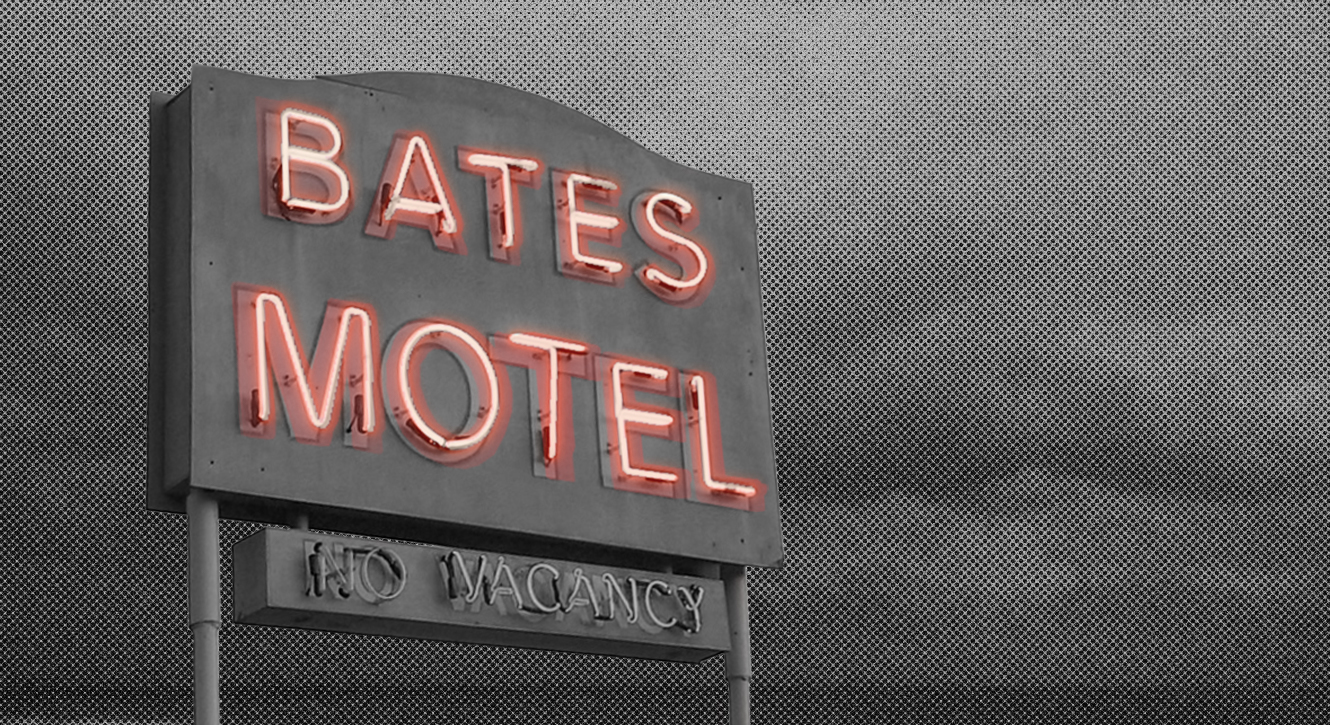
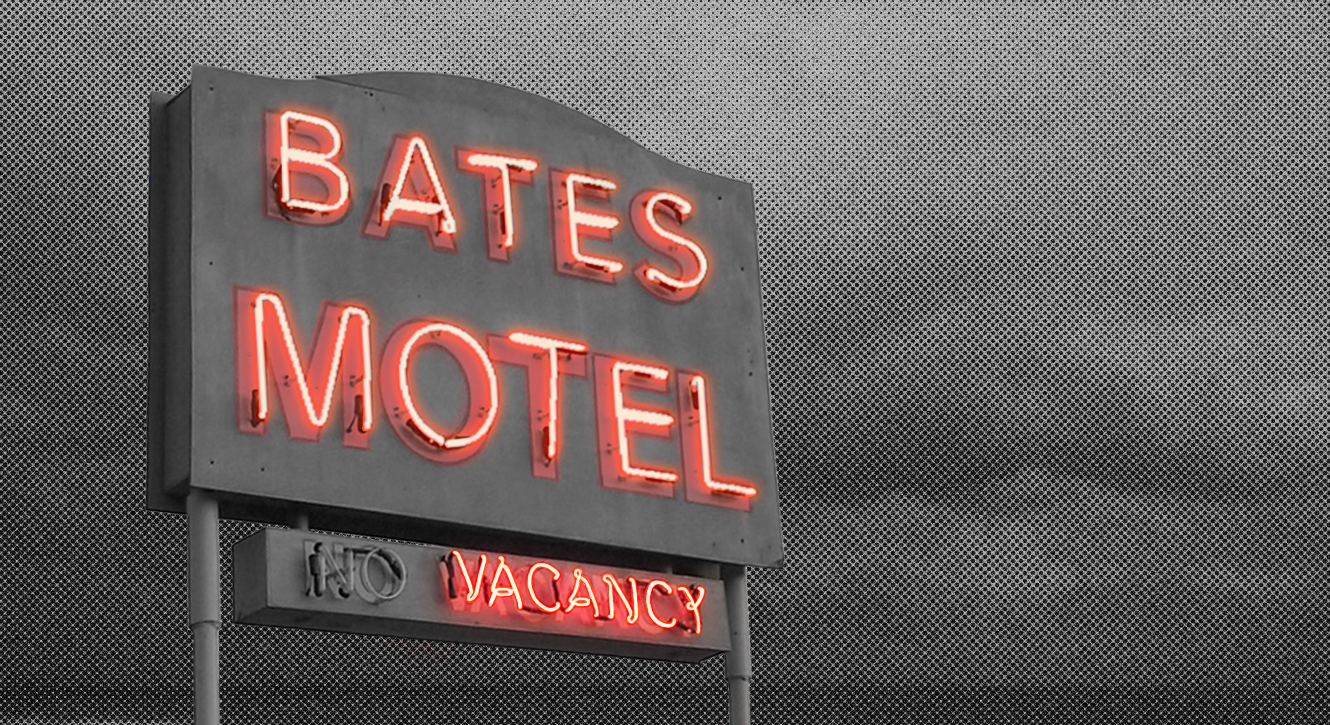
Random Bates and Images preloader

Changed region(s): [[0.1541, 0.3945, 0.5857, 0.6979], [0.185, 0.1214, 0.5241, 0.4248], [0.3083, 0.7586, 0.5549, 0.9103]]

diff --git a/source/index.html b/source/index.html
@@ -62,6 +62,27 @@
         /* With the Javascript, changing Sprite sheet position randomly (no keyframe used here for random animation) */
 
         /* Intro Button to start */
+        .intro-bates-sign{
+            background-image: url(intro/intro-bates-glow.png);
+            height: 429px;
+            width: 551px;
+            position: absolute;
+            top: 89px;
+            left: 236px;
+
+        }
+        .intro-bates-glow {
+            animation: intro-batesGlow .7s;
+        }
+
+        @keyframes intro-batesGlow {
+            50% {
+                -webkit-filter: drop-shadow(0px 0px 30px #f7f15b);
+                filter: drop-shadow (0px 0px 30px #f7f15b);
+                transform: scale(1.065);
+                opacity: .5;
+            }
+        }
 
         .intro-click-to-start {
             background: white;
@@ -87,7 +108,7 @@
         #sc-1 {
             width: 100%;
             height: 100%;
-            background-image: url(scene1/Sprite-Sheet-First-Scene.jpg);
+            background-image: url(scene1/scene1-background.jpg);
             overflow: hidden;
             position: relative;
         }
@@ -253,6 +274,7 @@
             left: 489px;
             transform: scale(.43);
         }
+
         .sc-3-object-2 {
             background-image: url(scene3/scene3-object2.png);
             width: 1002px;
@@ -263,6 +285,7 @@
             transform: scale(.43);
             opacity: .5;
         }
+
         .sc-3-object-3 {
             background-image: url(scene3/scene3-object3.png);
             width: 1002px;
@@ -272,6 +295,7 @@
             left: -369px;
             transform: scale(.43);
         }
+
         .sc-3-object-4 {
             background-image: url(scene3/scene3-object4.png);
             width: 1002px;
@@ -607,6 +631,8 @@
             top: 287px;
             left: 217px;
             transform: scale(.49);
+            -webkit-filter: drop-shadow(15px 15px 30px #f7f15b);
+            filter: drop-shadow(15px 15px 30px #f7f15b);
         }
 
 
@@ -661,15 +687,87 @@
         }
 
         .rainNone {
-            height: 40px;
-            width: 200px;
-            background: white;
-            opacity: 1;
+            height: 65px;
+            width: 300px;
             cursor: pointer;
             font-weight: bold;
             text-align: center;
+            position: absolute;
+            top: 500px;
+            left: 900px;
+            background-color: rgba(0, 0, 0, 0.65);
+            border-radius: 5px;
+
         }
 
+        .rainNone p {
+            margin: 0;
+            margin-bottom: 5px;
+            color: white;
+            text-shadow: 1px 1px 2px black;
+            font-family: Arial, Helvetica, sans-serif;
+
+
+        }
+
+        /* Toggle Box Intro scene style */
+
+        .switch {
+            position: relative;
+            display: inline-block;
+            width: 60px;
+            height: 34px;
+        }
+
+        .switch input {
+            display: none;
+        }
+
+        .slider {
+            position: absolute;
+            cursor: pointer;
+            top: 0;
+            left: 0;
+            right: 0;
+            bottom: 0;
+            background-color: #ccc;
+            -webkit-transition: .4s;
+            transition: .4s;
+        }
+
+        .slider:before {
+            position: absolute;
+            content: "";
+            height: 26px;
+            width: 26px;
+            left: 4px;
+            bottom: 4px;
+            background-color: white;
+            -webkit-transition: .4s;
+            transition: .4s;
+        }
+
+        input:checked+.slider {
+            background-color: #2196F3;
+        }
+
+        input:focus+.slider {
+            box-shadow: 0 0 1px #2196F3;
+        }
+
+        input:checked+.slider:before {
+            -webkit-transform: translateX(26px);
+            -ms-transform: translateX(26px);
+            transform: translateX(26px);
+        }
+
+        .slider.round {
+            border-radius: 34px;
+        }
+
+        .slider.round:before {
+            border-radius: 50%;
+        }
     </style>
 
 </head>
@@ -681,9 +779,18 @@
 
             <!-- ############### Intro Scene ############### -->
             <div id="intro" class="">
+                <div class="intro-bates-sign">
+                </div>
                 <div class="intro-click-to-start">
                 </div>
-                <div class="rainNone">Click to turn rain OFF for better performance</div>
+
+                <div class="rainNone">
+                    <p>Turn rain OFF for better performance</p>
+                    <label class="switch">
+                        <input type="checkbox" checked>
+                        <span class="slider round"></span>
+                    </label>
+                </div>
                 <div class="rain"></div>
 
 
@@ -842,40 +949,61 @@
     rainThunderAudio.play();
     rainThunderAudio.volume = .5;
 
-    /*
-    // Change Intro Background randomly with flickering sound
-    //setTimeout(introRandomBackground, random(2000,4000));
 
-    function introRandomBackground() {
+    // Change Intro Background randomly with flickering sound
+    let introBatesGlow = document.querySelector(".intro-bates-sign")
+
+    setTimeout(introRandomBates, random(2000,4000));
+
+    function introRandomBates() {
 
         // check if introActive is true, if so, continue, otherwhise, stop function
         // by not calling it again
         if (introActive === true) {
             //adding class intro-anim... to change background and play flicker sound
-            intro.classList.add("intro-animation-background");
+            introBatesGlow.classList.add("intro-bates-glow");
             neonFlickerAudio.play();
             //wait 100ms and then remove the class for normal background
             setTimeout(function() {
-                intro.classList.remove("intro-animation-background");
+                introBatesGlow.classList.remove("intro-bates-glow");
             }, 100);
             console.log("intro-still-active")
             //wait random between 500ms and 6000ms to change background again
-            let interval = random(500,6000);
-            setTimeout(introRandomBackground, interval);
+            let interval = random(800,4000);
+            setTimeout(introRandomBates, interval);
         } else {
             console.log("intro-deactivated");
         }
     }
-    */
+
+
+
+    //preLoad Images for next Scene for clean transition on Windows Load
+    preLoadImage("scene1/scene1-background.jpg");
+    preLoadImage("scene1/glowy-windows.png");
+    preLoadImage("scene1/neon-sign-glow.png");
+
+
     introClickToStart.addEventListener('click', leaveIntroScene);
 
     function leaveIntroScene() {
         console.log("leave intro scene");
 
+        //preLoad Images for next Scene for clean transition
+        preLoadImage("scene2/screen2-background.jpg");
+        preLoadImage("scene2/screen2-object1-window.png");
+        preLoadImage("scene2/screen2-object2-lamp.png");
+        preLoadImage("scene2/screen2-object3-key.png");
+        preLoadImage("scene2/screen2-object4-vase.png");
+        preLoadImage("scene2/screen2-object5-plant.png");
+
         //fade out audio and stop flicker audio
         /*fadeOutAudio(neonAudio);
         fadeOutAudio(rainThunderAudio);
         neonFlickerAudio.pause();*/
+
+
+
 
         //fade out intro scene
         fadeOut(intro);
@@ -888,6 +1016,7 @@
         //disable the introRandomBackground() function
         introActive = false;
         sc1Active = true;
+
     }
 
 
@@ -952,6 +1081,14 @@
     // Do stuff after the click on Window
     function leaveFirstScene() {
         console.log("leave first scene");
+
+        //preLoad Images for next Scene for clean transition
+        preLoadImage("scene2/screen2-background.jpg");
+        preLoadImage("scene2/screen2-object1-window.png");
+        preLoadImage("scene2/screen2-object2-lamp.png");
+        preLoadImage("scene2/screen2-object3-key.png");
+        preLoadImage("scene2/screen2-object4-vase.png");
+        preLoadImage("scene2/screen2-object5-plant.png");
 
         //fade out audio and stop flicker audio
         fadeOutAudio(neonAudio);
@@ -1243,18 +1380,33 @@
     }
 
 
-    // JavaScript to make it rain (in combination of jQuery)
-    let rainOff = document.querySelector(".rainNone")
-    rainOff.addEventListener('click', noRain);
+    // Switch button in the beginning to hide or display the rain
+    // based on the status of rainActive
+    let rainSwitch = document.querySelector(".switch input")
+    let rainActive = true;
+    rainSwitch.addEventListener('click', rainStatus);
 
-    function noRain() {
+    function rainStatus() {
         let rainClass = document.querySelectorAll(".rain");
-        var n = rainClass.length;
-        for (var i = 0; i < n; ++i) {
-            rainClass[i].classList.add("hide");
+
+        if (rainActive === true) {
+            var n = rainClass.length;
+            for (var i = 0; i < n; ++i) {
+                rainClass[i].classList.add("hide");
+            }
+            rainActive = false;
+        } else {
+            var n = rainClass.length;
+            for (var i = 0; i < n; ++i) {
+                rainClass[i].classList.remove("hide");
+            }
+            rainActive = true;
         }
     }
 
+    // JavaScript to actually make the rain (in combination with jQuery)
+    // Create 858 times the CCS class .drop and add the to the <div class="rain"><div>
+    // and then make them fall from top to bottom with a keyframes (in CSS)
     var nbDrop = 858;
 
     function randRange(minNum, maxNum) {
@@ -1298,6 +1450,11 @@
         }
     }, false);
 
+    function preLoadImage(imageFileName) {
+        var my_image = new Image();
+        my_image.src = imageFileName;
+        console.log("Preload Image" + imageFileName);
+    }
 </script>
 
 </html>
